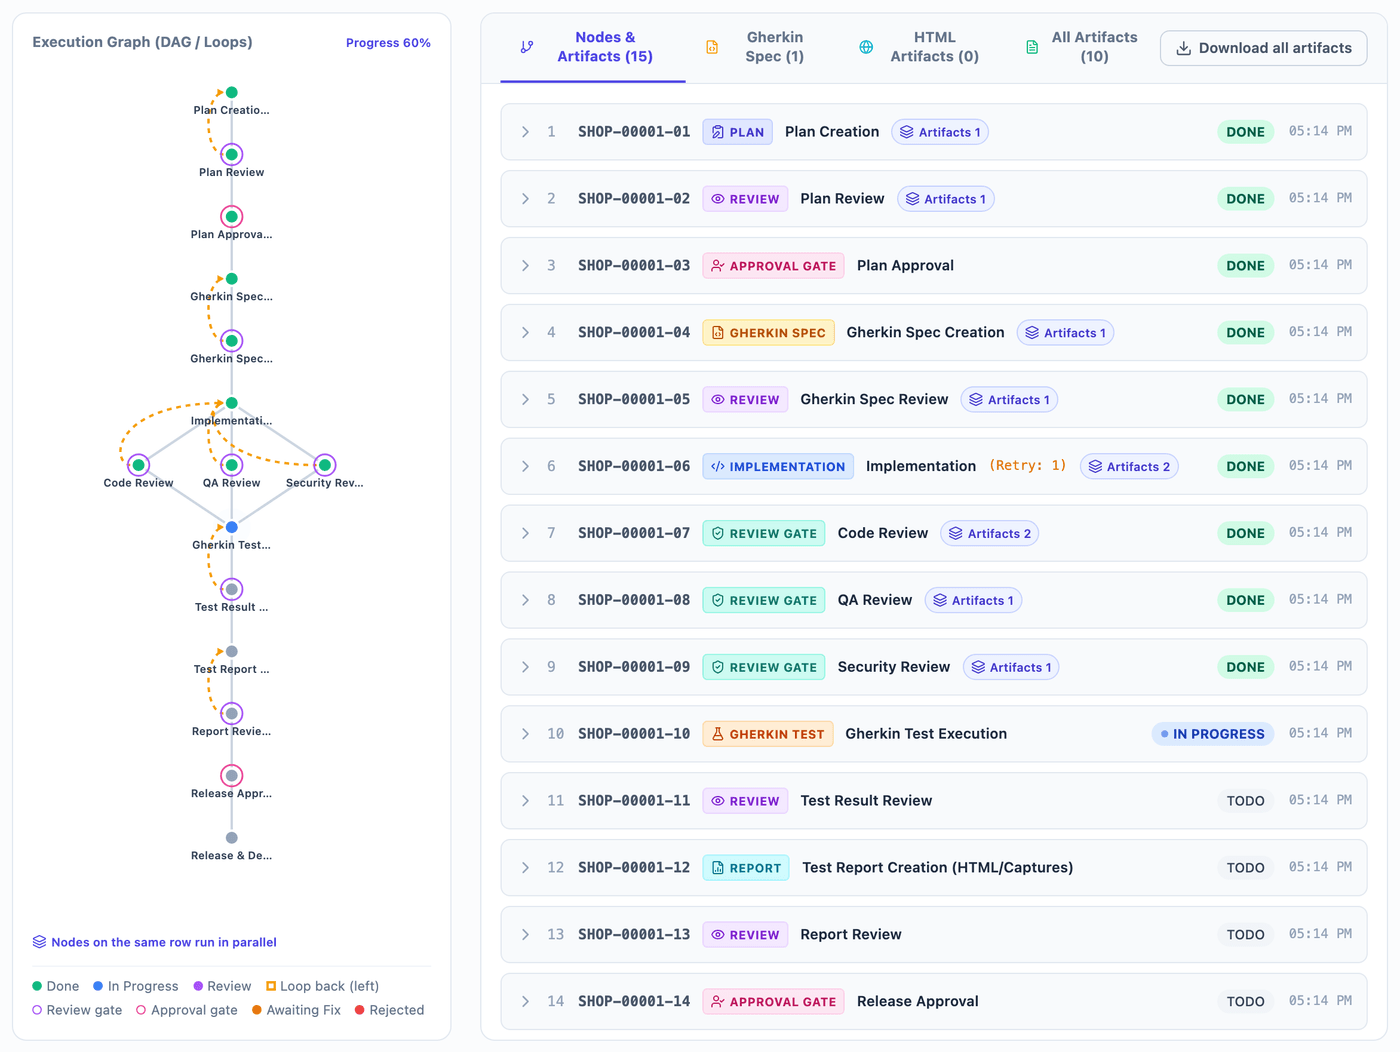
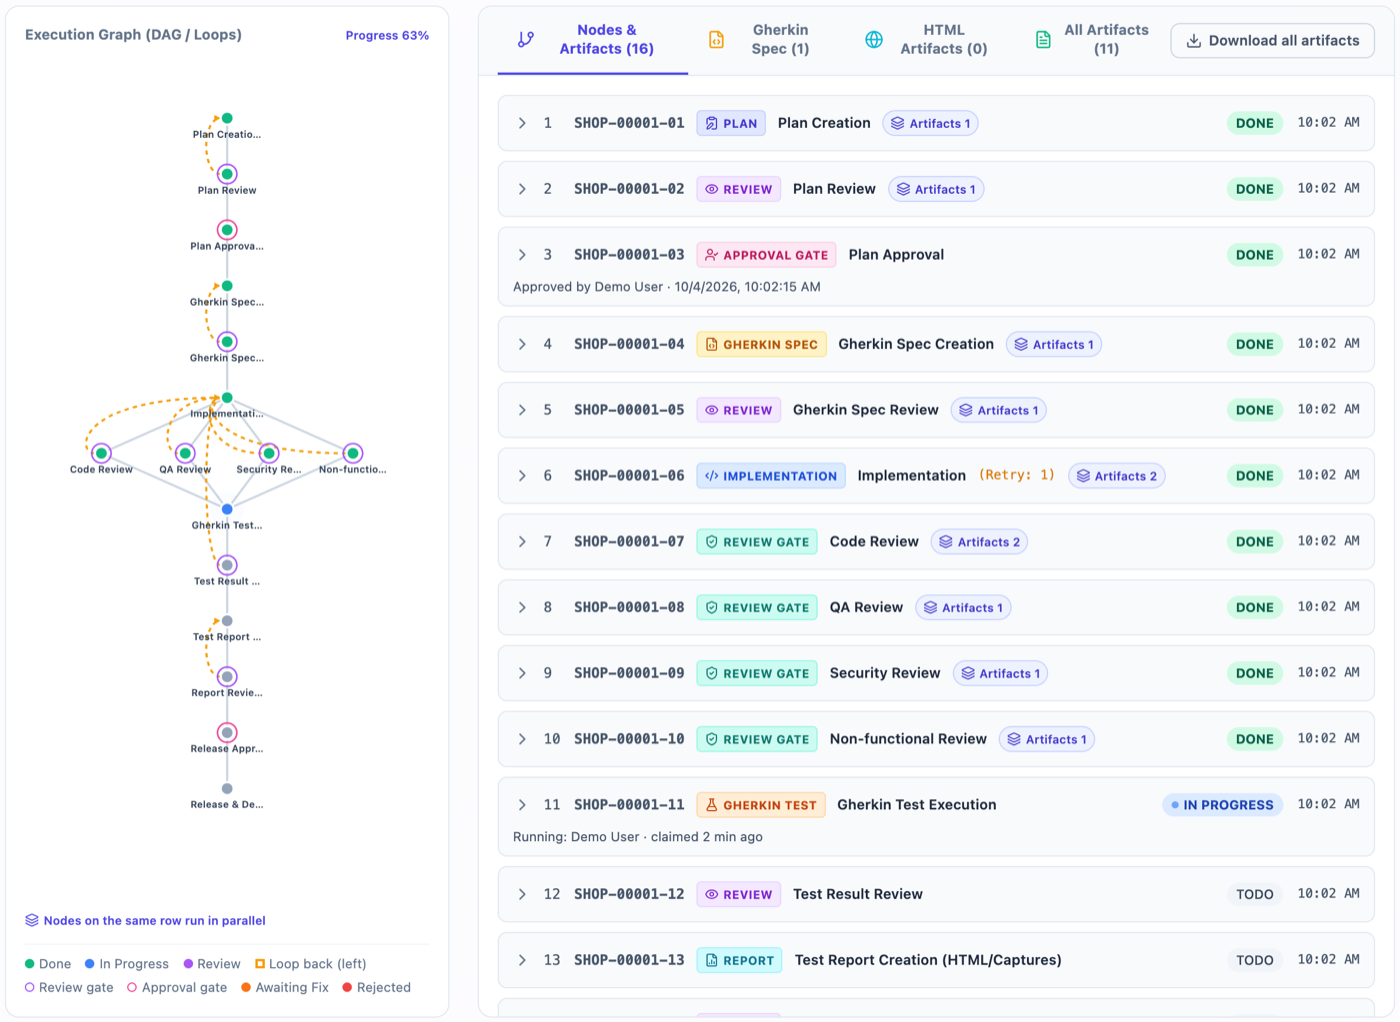
Review the docs and retake the Web UI screenshots for v0.11.1 (DFLT-00371)

diff --git a/README.md b/README.md
@@ -207,7 +207,7 @@ Each setting is resolved on its own, first match wins: **the team file's `projec
 - **With `pull_request` or `merge`, make sure the child sessions' permission mode allows `git push` and `gh pr create` / `gh pr merge`.** If they are refused, the ticket ends `failed` (`permission_denied`) or stops at the last stage that worked.
 - **Stopped runs stay until you delete them.** Runs are kept in `$HOME/.graph-ops/autopilot/<projectId>/runs/`. Finished runs are pruned automatically (the newest 20 are kept), but the latest stopped or interrupted run of each ticket and mode is kept so that it can be resumed; if you will not resume it, delete its `<runId>.json` while it is not active (`graph-engine autopilot status` shows which runs are). If a run file cannot be read, new runs in that project are refused with `AUTOPILOT_REGISTRY_CORRUPT` until you repair or delete it; the warning names the file. The registry's lock is held only briefly and is taken over after 2 minutes without a refresh.
 - **Uncommitted changes and untracked files**: fast-forwarding into a parent's branch is refused when the parent's worktree has uncommitted changes to tracked files (`PARENT_WORKTREE_DIRTY`); untracked files do not count, unless the fast-forward would overwrite one.
-- **In Terminal.app, child sessions open as tabs of the orchestrator's window.** On macOS without a `terminalCommand` and outside tmux, every child session of a run, at any depth, opens as a new tab of the Terminal.app window the orchestrator runs in. This needs the **Accessibility** and **Automation** permissions for Terminal (System Settings > Privacy & Security; macOS may ask the first time), and Terminal comes to the front each time a tab opens. Whenever a tab cannot be opened -- the orchestrator's tab was closed, a permission is missing, `osascript` fails or times out, a sandbox blocks it, Terminal cannot be brought to the front, or the new tab cannot be told apart -- the session opens in a new window as before, with a `graph-engine: warning:` on stderr; a failure that would repeat (a missing permission, for example) switches the rest of the run to new windows until the run is resumed. The [autopilot reference](docs/autopilot.md#terminalapp-child-sessions-as-tabs) lists every case.
+- **In Terminal.app, child sessions open as tabs of the orchestrator's window.** On macOS without a `terminalCommand` and outside tmux, every child session of a run, at any depth, opens as a new tab of the Terminal.app window the orchestrator runs in. This needs the **Accessibility** and **Automation** permissions for Terminal (System Settings > Privacy & Security; macOS may ask the first time), and Terminal comes to the front each time a tab opens. Whenever a tab cannot be opened -- the orchestrator's tab was closed, a permission is missing, `osascript` fails or times out, a sandbox blocks it, Terminal cannot be brought to the front, or the new tab cannot be told apart -- the session opens in a new window as before, with a `graph-engine: warning:` on stderr. While the screen is locked, no tab is tried at all: macOS lets no app come to the front then, so each session launched during the lock opens in a new window, and the next launch after you unlock tries the tab again. A failure that would repeat (a missing permission, for example) switches the rest of the run to new windows until the run is resumed. The [autopilot reference](docs/autopilot.md#terminalapp-child-sessions-as-tabs) lists every case.
 - **Terminals and worktrees pile up**: every ticket leaves a terminal open -- a tab in Terminal.app; elsewhere, a `terminalCommand` that opens tmux windows helps --, and in a repository that does not ignore `.claude/worktrees/`, the worktrees show up as untracked files.
 
 ### Notes
@@ -234,7 +234,7 @@ Each setting is resolved on its own, first match wins: **the team file's `projec
   - **Who decided**: a decision on a manual node records who made it and when, and the Web UI's node list shows it under the node's row: "Approved by <name> · <time>" or "Rejected by ..." on an approval gate, "Completed by ..." on a release or another manual node, "Sent back by ..." when the rejection looped back, with " (autopilot)" when an autopilot run decided (`complete-node --session` in an autopilot run's session). `get-ticket` shows it as `decided_by_name`, `decided_by_name_is_fallback`, `decided_at` and `decided_by_autopilot`. The name is your `myName` (or `<OS user>@<host>` marked "(name not set)" when it is empty), resolved by the graph-engine that records the decision -- the CLI's, or the Web UI server's own settings, never a name sent by the browser -- and cleaned before it is shown, as for claims. Only the latest decision is kept: it is cleared whenever the node's status changes again (a loop-back, `reopen-nodes`, `unstick-node`, a new claim), so a rewound gate shows no decider. A rejection of a `release` or a custom manual node that blocks the ticket leaves the node's status unchanged, so it records no decider (its artifacts are kept).
   - **Automatic nodes: stale completions**: a worker whose node was rewound by a loop-back and handed out again cannot record its old verdict. Pass the node's `--claim <token>` (the plugin's skills do); `complete-node` without it on a node `get-executable` handed out warns on stderr, because it can only compare the status it read.
   - **Reopening and granting at the same moment**: `reopen-nodes` is conditioned on the ticket still being blocked and on each node's status and iteration count, so of two at once only one gets through (the other is refused with `INVALID_NODE_STATE`) and no iteration is spent twice. `grant-iterations` adds to the stored limit, so two at once both count. A ticket's status is written only if it has not changed since it was read, so another member's `close-ticket` is never overwritten.
-  - **`CONCURRENT_WRITE_CONFLICT`**: on MySQL, a write that keeps colliding with other writes to the same ticket (a deadlock still there after three attempts) fails with `CONCURRENT_WRITE_CONFLICT` (HTTP 409) and writes nothing (a protocol 1.2 HTTP plugin may return the same code); unlike `INVALID_NODE_STATE`, the same command can simply be run again.
+  - **`CONCURRENT_WRITE_CONFLICT`**: on MySQL, a write that keeps colliding with other writes to the same ticket (a deadlock still there after three attempts) fails with `CONCURRENT_WRITE_CONFLICT` (HTTP 409) and writes nothing (a protocol 1.2 HTTP plugin may return the same code); unlike `INVALID_NODE_STATE`, the same command can simply be run again. Deadlock retries are logged to stderr / the UI server's log, so how often they happen can be seen: `event=mysql_deadlock_retry_succeeded` (Info) when a write succeeded after a deadlock, and `event=mysql_deadlock_retries_exhausted` (Warn) when it ends in `CONCURRENT_WRITE_CONFLICT`. The JSON on stdout is unchanged.
   - **Everyone updates together**: an older graph-engine completes nodes without these conditions and neither records nor clears a decider, so while versions are mixed a decision can still collide and a stale decider can be shown.
 - **Several members on the same tickets: editing a ticket at the same time**: a ticket write can be conditioned on the `updated_at` of the version it was based on, so that a member who read the ticket earlier cannot silently erase what another member wrote since. The write is refused with `TICKET_CHANGED` (HTTP 409 from the Web UI server) and **nothing is written** -- not the title, description, priority, labels or status. `updated_at` is compared as an exact string, and every write to a ticket now stores a new one (on SQLite and MySQL it is moved forward when the clock has not).
   - **CLI**: `update-ticket` and `refine-ticket` take `--if-updated-at <updated_at>` -- pass the `updated_at` that `get-ticket` printed, as is. A refused `refine-ticket` does not mark the ticket `REFINED` either. Without the flag both overwrite unconditionally, as before. `/graph-ops:refine-ticket` (and an autopilot run's refine) passes it and, on `TICKET_CHANGED`, reads the ticket again, folds the other change in and writes again.
@@ -472,7 +472,7 @@ projects:
 - **`pull_request`／`merge` を使うときは、子セッションの権限モードで `git push` や `gh pr create`／`gh pr merge` が拒否されないことを確認してください。** 拒否されると、そのチケットは `failed`（`permission_denied`）になるか、できたところまでで止まります。
 - **停止した実行は、削除するまで残ります。** 実行の記録は `$HOME/.graph-ops/autopilot/<projectId>/runs/` に置かれます。完了した実行は自動で整理されます（新しい 20 件を残します）。一方、起点とモードごとに最新の、停止または中断した実行は、再開できるように残り続けます。再開しないなら、実行中でないことを確かめてから（`graph-engine autopilot status` で分かります）、その `<runId>.json` を削除してください。読み込めない実行ファイルがあると、そのプロジェクトでは新しい実行が `AUTOPILOT_REGISTRY_CORRUPT` で拒否されます。警告に出るファイルを直すか削除してください。記録のロックは短時間しか保持されず、2 分間更新されなければ引き継がれます。
 - **未コミットの変更と未追跡ファイル**: 親の worktree で追跡中のファイルに未コミットの変更があると、親のブランチへの fast-forward は拒否されます（`PARENT_WORKTREE_DIRTY`）。未追跡ファイルは、fast-forward で上書きされるものでない限り、この判定の対象外です。
-- **Terminal.app では、子セッションはオーケストレーターのウィンドウのタブとして開きます。** macOS で `terminalCommand` を設定しておらず tmux の外にいるときは、run のすべての子セッションが、深さに関係なく、オーケストレーターが動いている Terminal.app のウィンドウに新しいタブとして開きます。このため Terminal に**アクセシビリティ**と**オートメーション**の許可が必要です（システム設定 > プライバシーとセキュリティ。初回に macOS から確認されることがあります）。また、タブを開くたびに Terminal が最前面に来ます。タブを開けないとき（オーケストレーターのタブが閉じられた、許可がない、`osascript` が失敗またはタイムアウトした、サンドボックスに止められた、Terminal を最前面にできなかった、新しいタブを見分けられなかった）は、従来どおり新しいウィンドウで開き、stderr に `graph-engine: warning:` を出します。繰り返し起きる失敗（許可がないなど）のときは、その run の残りは新しいウィンドウで開きます（run を再開すると、またタブを試します）。すべての条件は[オートパイロットのリファレンス](docs/autopilot.md#terminalapp-child-sessions-as-tabs)（英語）にあります。
+- **Terminal.app では、子セッションはオーケストレーターのウィンドウのタブとして開きます。** macOS で `terminalCommand` を設定しておらず tmux の外にいるときは、run のすべての子セッションが、深さに関係なく、オーケストレーターが動いている Terminal.app のウィンドウに新しいタブとして開きます。このため Terminal に**アクセシビリティ**と**オートメーション**の許可が必要です（システム設定 > プライバシーとセキュリティ。初回に macOS から確認されることがあります）。また、タブを開くたびに Terminal が最前面に来ます。タブを開けないとき（オーケストレーターのタブが閉じられた、許可がない、`osascript` が失敗またはタイムアウトした、サンドボックスに止められた、Terminal を最前面にできなかった、新しいタブを見分けられなかった）は、従来どおり新しいウィンドウで開き、stderr に `graph-engine: warning:` を出します。画面ロック中はタブを試しません。macOS がその間どのアプリも最前面に出さないため、ロック中に起動したセッションは新しいウィンドウで開き、ロックを解除した後の次の起動からまたタブを試します。繰り返し起きる失敗（許可がないなど）のときは、その run の残りは新しいウィンドウで開きます（run を再開すると、またタブを試します）。すべての条件は[オートパイロットのリファレンス](docs/autopilot.md#terminalapp-child-sessions-as-tabs)（英語）にあります。
 - **ターミナルと worktree が増えます**: チケットごとにターミナル（Terminal.app ではタブ）が開いたまま残ります（それ以外では、tmux のウィンドウを開く `terminalCommand` を使うと扱いやすくなります）。`.claude/worktrees/` を無視していないリポジトリでは、worktree が未追跡ファイルとして見えます。
 
 ### 補足
@@ -499,7 +499,7 @@ projects:
   - **判断者の記録**: 手動ノードの判断では、判断した人と日時が記録され、Web UI のノード一覧でそのノードの行の下に表示されます。承認ゲートでは「承認: <名前> · <日時>」または「却下: …」、release やその他の手動ノードでは「完了: …」、却下でループバックした場合は「差し戻し: …」です。オートパイロットの実行が判断した場合（オートパイロットの run のセッションで `complete-node --session` を使った場合）は「（オートパイロット）」が付きます。`get-ticket` では `decided_by_name`・`decided_by_name_is_fallback`・`decided_at`・`decided_by_autopilot` として出ます。名前は `myName`（空なら「（名前未設定）」付きの `<OS ユーザー名>@<ホスト名>`）で、判断を記録する graph-engine（CLI、または Web UI サーバー自身の設定）が解決します。ブラウザーから送られた名前は使いません。表示の前には、取得の記録と同じく無害化されます。記録されるのは最新の判断だけです。ノードのステータスがその後変わると（ループバック、`reopen-nodes`、`unstick-node`、再取得）消えるため、巻き戻されたゲートには判断者が表示されません。release やカスタムの手動ノードの却下でチケットがブロックになった場合は、ノードのステータスが変わらないため、判断者は記録されません（成果物は残ります）。
   - **自動ノード：古い判定の記録を防ぐ**: ループバックで巻き戻されて別のワーカーに払い出し直されたノードに、古いワーカーの判定は記録されません。`--claim <token>` を付けてください（プラグインのスキルは付けます）。`get-executable` が払い出したノードを `--claim` なしで完了すると、読み取ったステータスしか照合できないため、stderr に警告が出ます。
   - **同時の reopen と grant**: `reopen-nodes` は、チケットがまだブロックされていることと、各ノードのステータス・反復回数を条件にするため、同時に 2 回実行しても通るのは 1 回だけで（もう一方は `INVALID_NODE_STATE`）、反復が二重に消費されることはありません。`grant-iterations` は保存されている上限に加算するので、同時の 2 回はどちらも反映されます。チケットのステータスは、読み取ってから変わっていない場合にだけ書き込むので、別のメンバーの `close-ticket` による CLOSED が上書きされることはありません。
-  - **`CONCURRENT_WRITE_CONFLICT`**: MySQL で、同じチケットへのほかの書き込みとの衝突（3 回試しても解消しないデッドロック）が続いた書き込みは、`CONCURRENT_WRITE_CONFLICT`（HTTP 409）で失敗し、何も書き込みません（プロトコル 1.2 の HTTP プラグインも同じコードを返すことがあります）。`INVALID_NODE_STATE` とは違い、同じコマンドをそのまま再実行して構いません。
+  - **`CONCURRENT_WRITE_CONFLICT`**: MySQL で、同じチケットへのほかの書き込みとの衝突（3 回試しても解消しないデッドロック）が続いた書き込みは、`CONCURRENT_WRITE_CONFLICT`（HTTP 409）で失敗し、何も書き込みません（プロトコル 1.2 の HTTP プラグインも同じコードを返すことがあります）。`INVALID_NODE_STATE` とは違い、同じコマンドをそのまま再実行して構いません。デッドロックの再試行は、どのくらい起きているかが分かるよう stderr / UI サーバーのログに記録されます。デッドロックの後に書き込みが成功したときは `event=mysql_deadlock_retry_succeeded`（Info）、`CONCURRENT_WRITE_CONFLICT` で終わったときは `event=mysql_deadlock_retries_exhausted`（Warn）です。stdout の JSON は変わりません。
   - **全員そろって更新してください**: 古い graph-engine はこれらの条件なしで完了し、判断者の記録も消去もしないため、バージョンが混在している間は判断が衝突したり、古い判断者が表示されたりすることがあります。
 - **複数のメンバーで同じチケットを扱う場合：チケットの同時編集**: チケットへの書き込みは、もとにした版の `updated_at` を条件にできます。先に読んだメンバーが、その後に別のメンバーが書いた内容を黙って消さないようにするためです。条件が合わなければ `TICKET_CHANGED`（Web UI サーバーでは HTTP 409）で拒否され、タイトル・説明・優先度・ラベル・ステータスの**いずれも書き込まれません**。`updated_at` は文字列として完全一致で比べます。チケットへの書き込みのたびに新しい値が保存されます（SQLite と MySQL では、時計が進んでいなければ値を進めます）。
   - **CLI**: `update-ticket` と `refine-ticket` に `--if-updated-at <updated_at>` を指定できます。`get-ticket` が出力した `updated_at` をそのまま渡してください。拒否された `refine-ticket` はチケットを `REFINED` にもしません。指定しなければ、どちらも従来どおり無条件に上書きします。`/graph-ops:refine-ticket`（とオートパイロットの refine）はこれを渡し、`TICKET_CHANGED` になったらチケットを読み直して相手の変更を取り込み、書き直します。

diff --git a/docs/release-notes/v0.11.1.md b/docs/release-notes/v0.11.1.md
@@ -41,6 +41,8 @@
 ## Documentation
 
 - `docs/autopilot.md` adds "Fallbacks while the screen is locked" (why launches fail while the screen is locked, why that is treated as a known limitation, and how to check the detection against loginwindow's log), "Tracing each fallback" (how to read `terminal_tab_failures`, their `diagnostics`, `terminal_window_launches`, `terminal_late_tabs` and `terminal_tty_reason`, and how to tell a 9102 apart) and "Checking tabs on a real Mac" (the manual checks, how to run them without disturbing other runs, and what is not yet checked with the screen unlocked), and updates the tab section for the screen-lock check, the new time limits and the slow-timeout rule (DFLT-00361, DFLT-00362).
+- The README's autopilot notes now say that sessions launched while the screen is locked open in new windows, and its note on `CONCURRENT_WRITE_CONFLICT` mentions the deadlock retry log records (`mysql_deadlock_retry_succeeded` / `mysql_deadlock_retries_exhausted`), in English and Japanese.
+- The README's screenshots of the ticket list, the execution graph and the settings were retaken from the current Web UI: they now show the label filter and label chips, the Non-functional Review gate, who decided or is running a node, and the current settings tabs (Templates, Labels, Autopilot) without the old scope switch.
 
 ## Upgrade notes
 
